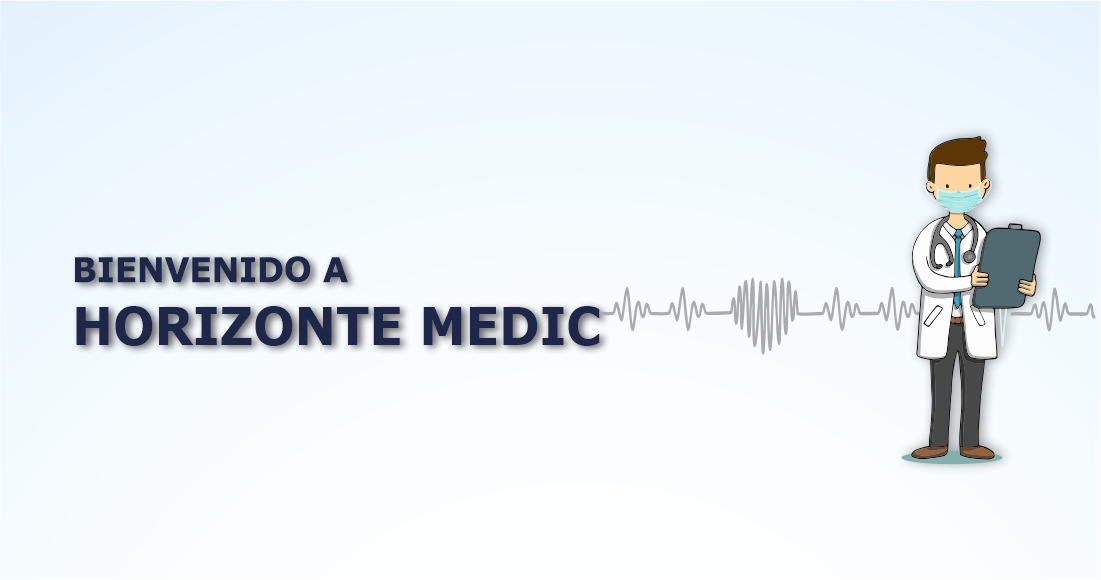
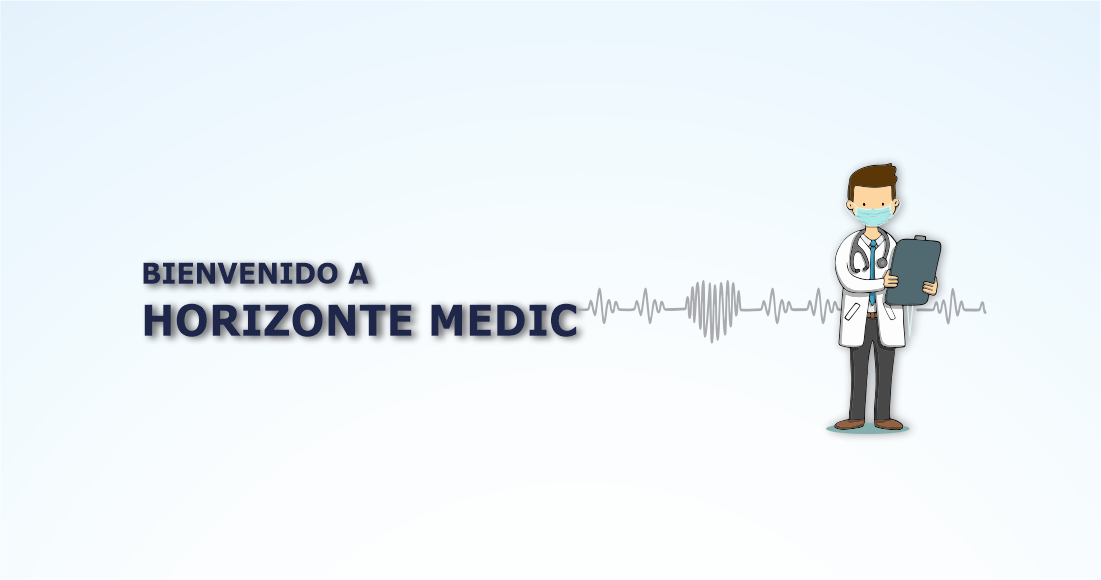
Responsive terminado, esperando agregar contenido a los botones

Changed region(s): [[0.0618, 0.2172, 1.0, 0.8069]]

diff --git a/css/nosotros.css b/css/nosotros.css
@@ -4,7 +4,7 @@
 }
 
 .nosotros-p {
-    max-width: 500px;
+    max-width: 1100px;
     margin: 0 auto;
 }
 
@@ -15,16 +15,6 @@
     align-items: center;
     margin: 1rem 0;
     margin-top: 4rem;
-}
-
-@media screen and (max-width: 950px) {
-    .nosotros {
-        margin-top: 0rem;
-    }
-    .nosotros-p {
-        max-width: 1100px;
-        margin: 0 auto;
-    }
 }
 
 .nosotros-h2 h2 {
@@ -161,5 +151,33 @@
         border-right-color: transparent;
         border-bottom-color: #234187;
         border-left-color: #234187;
+    }
+}
+
+@media screen and (max-width: 1150px) {
+    .nosotros-p {
+        max-width: 800px;
+        margin: 3rem auto;
+    }
+}
+
+@media screen and (max-width: 950px) {
+    .nosotros {
+        margin-top: 4rem;
+    }
+    .nosotros-p {
+        max-width: 800px;
+    }
+}
+
+@media screen and (max-width: 850px) {
+    .nosotros-p {
+        max-width: 600px;
+    }
+}
+
+@media screen and (max-width: 760px) {
+    .nosotros-p {
+        max-width: 75%;
     }
 }

diff --git a/index.html b/index.html
@@ -67,9 +67,10 @@
                 <div class="slider" id="slider">
                     <div class="slider__section">
                         <img src="img/slider/doc-trans-responsive.png" alt="" class="slider__img img-responsive">
+                        <img src="img/slider/Copia_de_seguridad_de_bienvenida-doc-transparencia.png" alt="" class="slider__img img-alfa">
                     </div>
                     <div class="slider__section">
-                        <img src="img/slider/Copia_de_seguridad_de_bienvenida-doc-transparencia.png" alt="" class="slider__img img-alfa">
+                        <img src="img/slider/fond2.jpg" alt="" class="slider__img">
                     </div>
                     <div class="slider__section">
                         <img src="img/slider/fond3.jpg" alt="" class="slider__img">

diff --git a/css/header.css b/css/header.css
@@ -232,13 +232,14 @@
         margin-left: 1rem;
     }
     .header-contenido {
-        z-index: -1;
+        z-index: 1;
     }
     .navegacion {
         width: 98%;
         position: sticky;
         display: none;
         opacity: 0;
+        z-index: 2;
     }
     @keyframes muestraMenu {
         from {
@@ -263,7 +264,6 @@
     }
     .navegacion ul {
         flex-direction: column;
-        z-index: 10000;
         background: #234187;
     }
     .navegacion ul li {
@@ -345,7 +345,7 @@
     display: none;
 }
 
-@media screen and (max-width: 950px) {
+@media screen and (max-width: 760px) {
     .slider {
         height: 350px;
     }

diff --git a/js/slider-controller.js b/js/slider-controller.js
@@ -40,6 +40,6 @@ btnLeft.addEventListener('click', function() {
     prev();
 })
 
-// setInterval(function() {
-//     next();
-// }, 6000);
+setInterval(function() {
+    next();
+}, 6000);

diff --git a/css/menu2.css b/css/menu2.css
@@ -13,7 +13,7 @@
     padding: 2rem;
 }
 
-@media screen and (max-width: 950px) {
+@media screen and (max-width: 760px) {
     .section-1 {
         display: none;
     }
